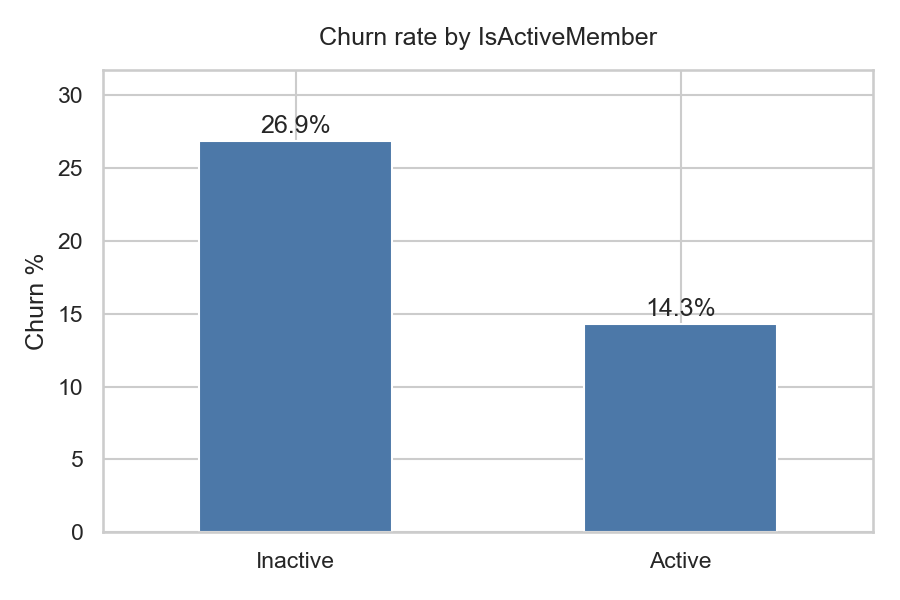
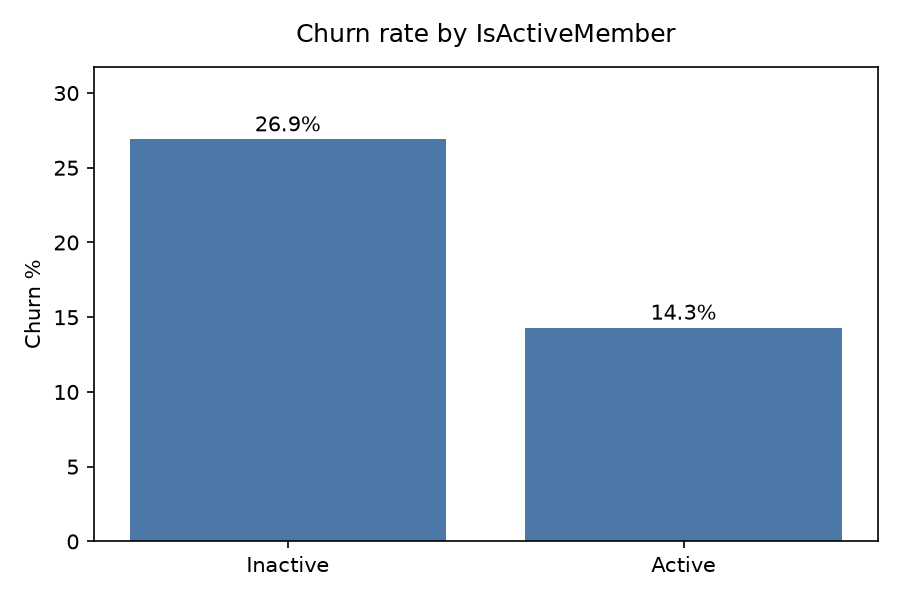
Fix EDA charts, add README and app check

Changed region(s): [[0.0311, 0.03, 0.9956, 0.96]]

diff --git a/src/check_app.py b/src/check_app.py
@@ -1,0 +1,46 @@
+r"""Automatic check that the app shows the same predictions as the model.
+Run from the project folder:   python src/check_app.py
+"""
+import joblib
+import pandas as pd
+from streamlit.testing.v1 import AppTest
+
+from preprocess import ROOT
+
+FEATURES = ["CreditScore", "Geography", "Gender", "Age", "Tenure", "Balance",
+            "NumOfProducts", "HasCrCard", "IsActiveMember", "EstimatedSalary"]
+pipe = joblib.load(ROOT / "models" / "final_model.joblib")["pipeline"]
+test = pd.read_csv(ROOT / "data" / "test.csv")
+
+at = AppTest.from_file(str(ROOT / "app" / "app.py"), default_timeout=180).run()
+all_ok = not at.exception
+print("App starts without errors:", "PASS" if all_ok else "FAIL")
+
+print("\n1. App probability vs model probability")
+for i in [0, 1, 2, 3, 4, 501]:
+    at.number_input(key="row_idx").set_value(i).run()
+    at.button[0].click().run()
+    shown = [c.value for c in at.caption if c.value.startswith("Exact probability")]
+    expected = float(pipe.predict_proba(test[FEATURES].iloc[[i]])[:, 1][0])
+    ok = bool(shown) and shown[0] == f"Exact probability: {expected:.4f}"
+    all_ok &= ok
+    print(f"   row {i:>3}: app {shown[0].split(': ')[1] if shown else 'n/a'} | model {expected:.4f} | {'PASS' if ok else 'FAIL'}")
+
+print("\n2. 'Loaded test customer' note disappears after editing an input")
+at.number_input(key="row_idx").set_value(5).run()
+at.button[0].click().run()
+shown_before = any("Loaded test customer" in c.value for c in at.caption)
+at.slider(key="in_Age").set_value(at.slider(key="in_Age").value + 1).run()
+shown_after = any("Loaded test customer" in c.value for c in at.caption)
+ok = shown_before and not shown_after
+all_ok &= ok
+print(f"   note shown after loading: {shown_before} | after editing: {shown_after} | {'PASS' if ok else 'FAIL (download the latest app.py again)'}")
+
+print("\n3. Every page opens without errors")
+for page in ["Risk Calculator", "Distribution", "Feature Importance", "What-If Simulator"]:
+    at.sidebar.radio[0].set_value(page).run()
+    ok = not at.exception
+    all_ok &= ok
+    print(f"   {page:20s} {'PASS' if ok else 'FAIL'}")
+
+print("\nALL CHECKS PASSED" if all_ok else "\nSOME CHECKS FAILED, see above")

diff --git a/src/make_eda_charts.py b/src/make_eda_charts.py
@@ -1,0 +1,48 @@
+r"""Recreate the churn-rate bar charts (02 to 10) with a clean layout.
+Run from the project folder:   python src/make_eda_charts.py
+Overwrites reports/figures/02_... to 10_... with the fixed versions.
+"""
+import matplotlib
+
+matplotlib.use("Agg")
+import matplotlib.pyplot as plt
+import pandas as pd
+
+from preprocess import ROOT, load_data
+
+FIG = ROOT / "reports" / "figures"
+FIG.mkdir(parents=True, exist_ok=True)
+df = load_data(ROOT / "data" / "churn_clean.csv")
+
+df["AgeBand"] = pd.cut(df["Age"], [17, 30, 40, 50, 60, 100], labels=["18-30", "31-40", "41-50", "51-60", "60+"])
+df["CreditBand"] = pd.cut(df["CreditScore"], [0, 500, 600, 700, 800, 900],
+                          labels=["<500", "500-600", "600-700", "700-800", "800+"])
+df["ZeroBalance"] = (df["Balance"] == 0).map({True: "Zero balance", False: "Has balance"})
+
+
+def churn_bar(col, n, labels=None):
+    rate = df.groupby(col, observed=True)["Exited"].mean().mul(100).round(1)
+    fig, ax = plt.subplots(figsize=(max(6, 0.7 * len(rate) + 3), 4))
+    ax.bar(range(len(rate)), rate.values, color="#4C78A8")
+    ax.set_ylim(0, rate.max() * 1.18)
+    for i, v in enumerate(rate):
+        ax.text(i, v + rate.max() * 0.02, f"{v}%", ha="center")
+    ax.set_xticks(range(len(rate)))
+    ax.set_xticklabels(labels if labels else [str(x) for x in rate.index])
+    ax.set_title(f"Churn rate by {col}", pad=12)
+    ax.set_ylabel("Churn %")
+    fig.tight_layout()
+    fig.savefig(FIG / f"{n:02d}_churn_by_{col}.png", dpi=150)
+    plt.close(fig)
+    print(f"Saved {n:02d}_churn_by_{col}.png")
+
+
+churn_bar("Geography", 2)
+churn_bar("Gender", 3)
+churn_bar("NumOfProducts", 4)
+churn_bar("HasCrCard", 5, ["No card", "Has card"])
+churn_bar("IsActiveMember", 6, ["Inactive", "Active"])
+churn_bar("AgeBand", 7)
+churn_bar("Tenure", 8)
+churn_bar("CreditBand", 9)
+churn_bar("ZeroBalance", 10)

diff --git a/README.md b/README.md
@@ -1,8 +1,64 @@
 # Predictive Churn Intelligence for Retail Banking
 
-Setup:
+A model and dashboard that predict which bank customers are likely to leave, give each customer a churn probability, and explain the main drivers, so a bank can contact the right customers before they go.
 
-    python -m venv venv
-    venv\Scripts\activate   # Windows
-    source venv/bin/activate  # Mac/Linux
-    pip install -r requirements.txt
+**Live dashboard:** https://bank-churn-data-model.streamlit.app
+
+## Headline results
+
+- Data: 10,000 retail bank customers; 20.4% churned (2,037 left, 7,963 stayed).
+- Final model: tuned XGBoost. Test ROC-AUC 0.871 (cross-validated 0.864). Logistic Regression baseline: 0.774.
+- Decision threshold 0.29, chosen from the precision-recall curve on training data only: precision 0.607, recall 0.676, F1 0.640.
+- Accuracy alone is misleading here: a model that predicts "nobody leaves" is already about 80% accurate, so models were judged on recall, F1 and ROC-AUC.
+
+## Main churn drivers
+
+| Driver | Churn compared with the comparison group |
+|---|---|
+| Age 45-60 | 5.0 times those under 40 |
+| 3-4 products held | 11.3 times those holding 2 products |
+| Inactive members | 1.9 times active members |
+| Customers in Germany | 2.0 times France and Spain |
+| Women | 1.5 times men |
+
+These are associations in the data, not proven causes. See `docs/churn_drivers_and_recommendations.md` for the explanation and five retention recommendations.
+
+## Dashboard
+
+- **Risk Calculator:** enter a customer's details to get a churn probability, a Low/Medium/High label and a follow-up flag.
+- **Distribution:** how predicted risk is spread across customers, with the threshold marked.
+- **Feature Importance:** what drives the model's predictions (importance and SHAP).
+- **What-If Simulator:** change activity, products, balance or tenure and see the risk before and after.
+
+## Project structure
+
+```
+data/        raw data (European_Bank.csv), clean data, train/test sets
+notebooks/   01 data audit, 02 EDA, 04 models, 05 final model, 06 explainability
+src/         preprocess.py (pipeline), train_final.py, and check scripts
+models/      final_model.joblib (pipeline + threshold)
+app/         app.py (Streamlit dashboard)
+reports/     result tables and figures/
+docs/        data audit, EDA findings, model justification, drivers and recommendations
+```
+
+## Run it locally (Windows PowerShell)
+
+```
+python -m venv venv
+venv\Scripts\activate
+pip install -r requirements.txt
+python src/preprocess.py        # builds train/test sets
+python src/train_final.py       # rebuilds the final model
+streamlit run app/app.py
+```
+
+## Method notes
+
+- One scikit-learn pipeline (feature engineering, encoding, optional scaling) is used in training and in the app, so predictions match.
+- Encoders and scalers are fitted on training data only to prevent data leakage; the split is stratified 80/20 with a fixed random state.
+- Engineered features: balance-to-salary ratio, product density, engagement x products, age x tenure, age / tenure.
+
+## Limitations
+
+Single dataset, no time dimension, estimated salary may be synthetic, and results may not generalise to other banks. The dashboard is a demonstration and should not be used for real customer decisions.
